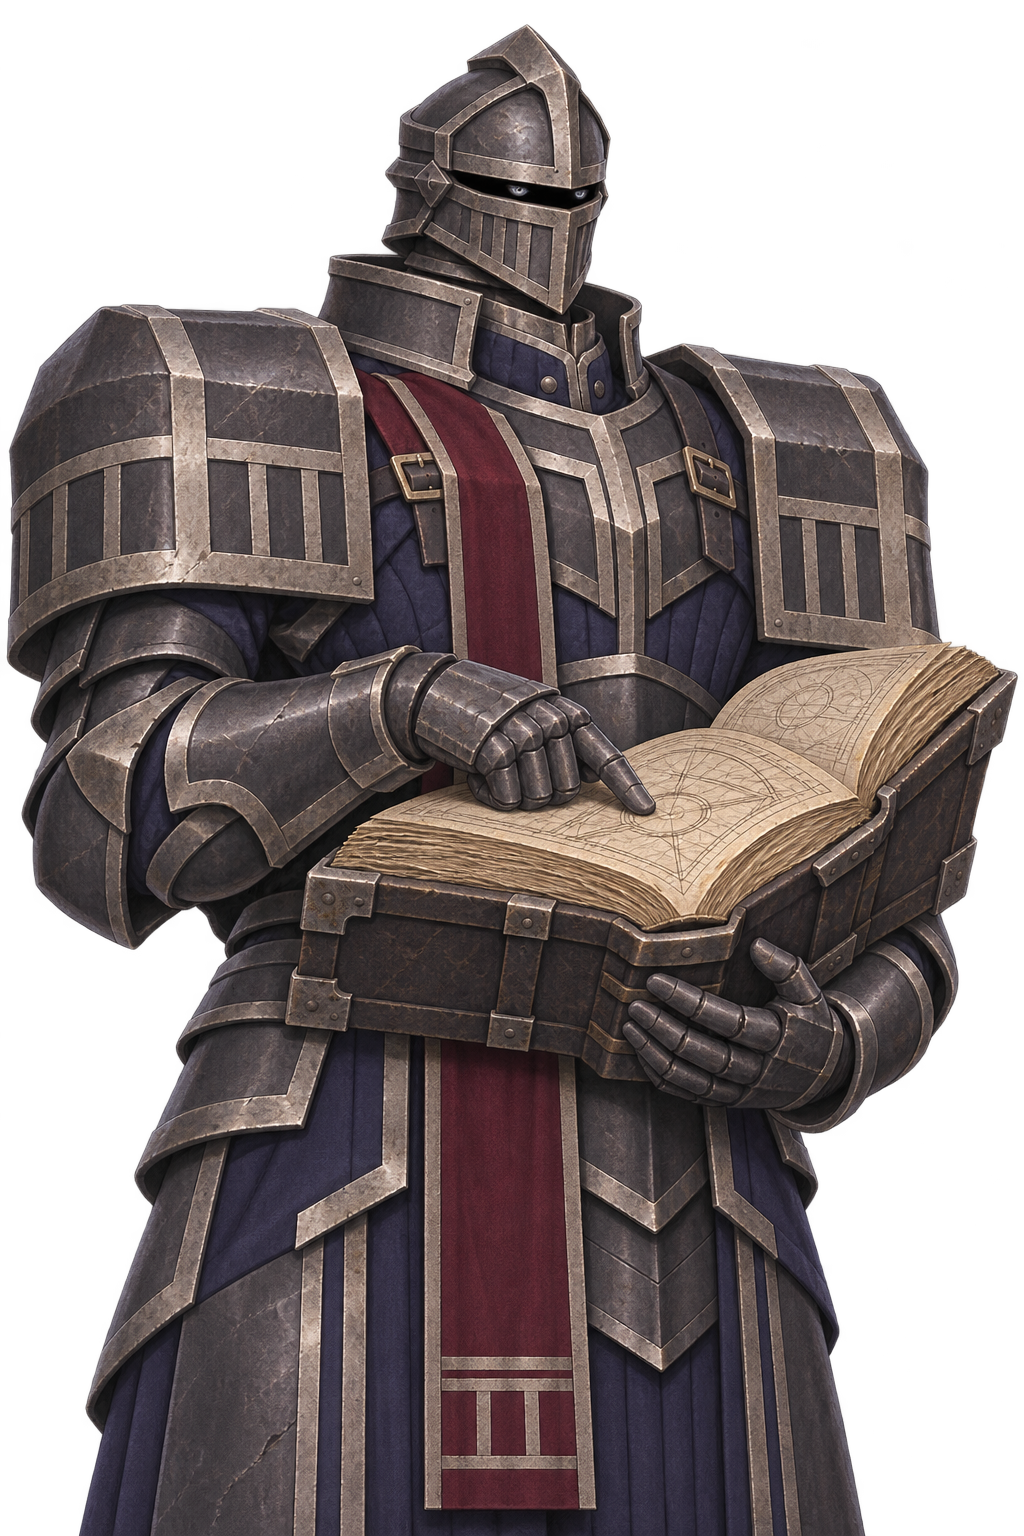
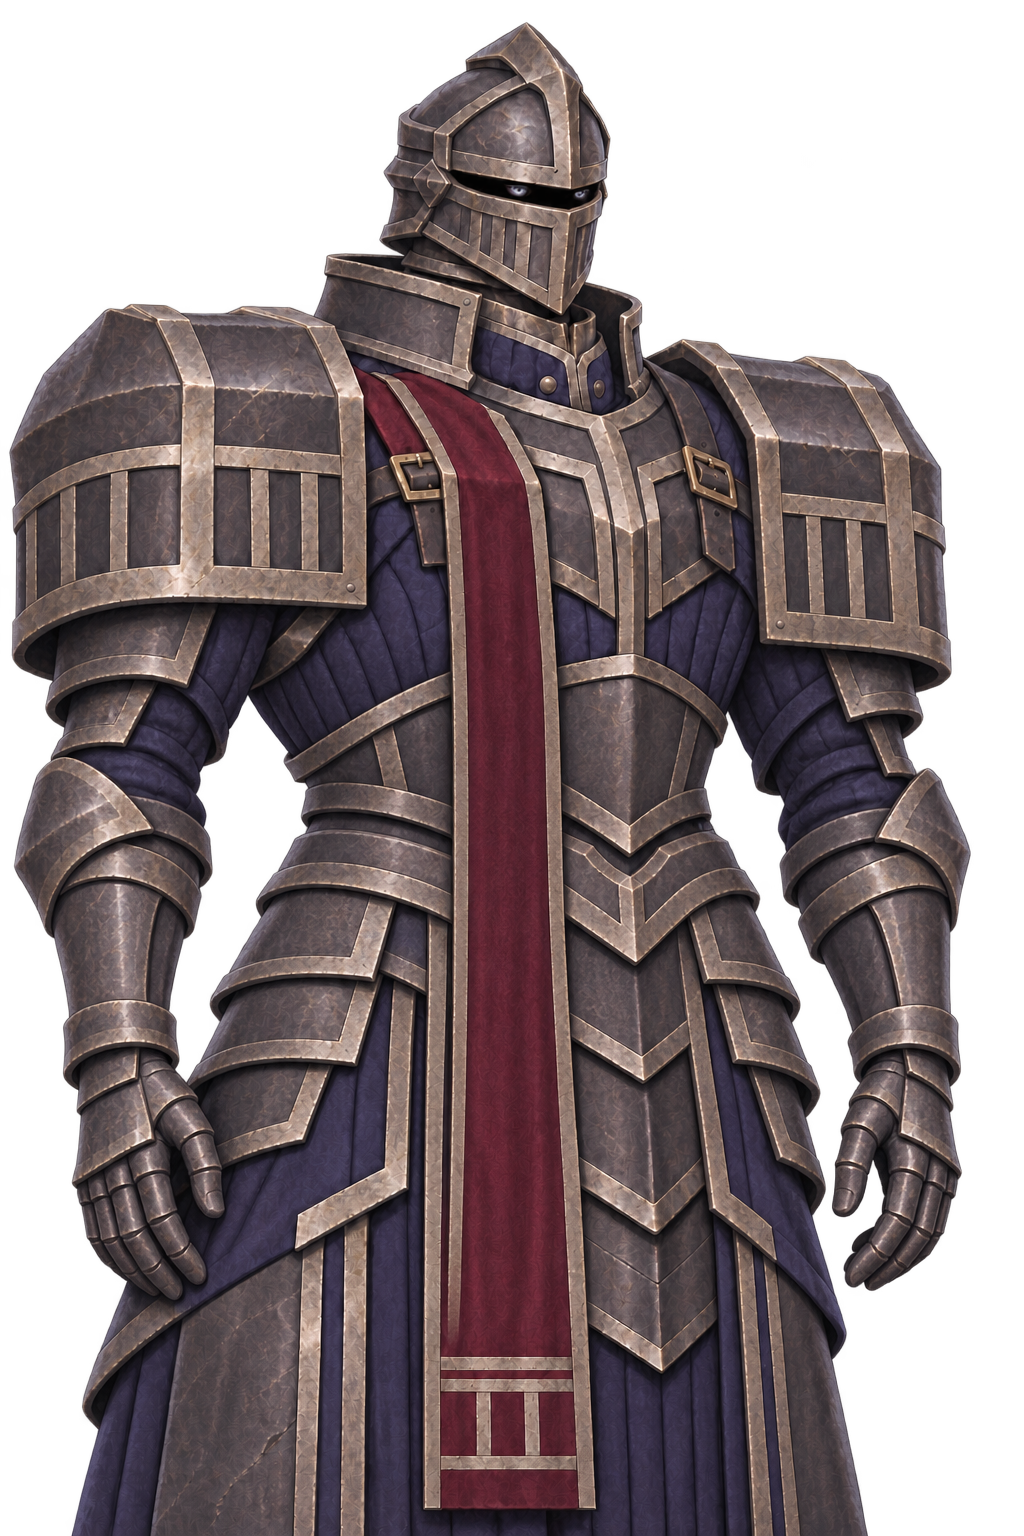
Add SD portraits for all nine commanders and remove Kantor's book

diff --git a/src/assets/commanders/README.md b/src/assets/commanders/README.md
@@ -1,4 +1,4 @@
-# 사령관 대화용 일러스트
+# 사령관 일러스트
 
 `docs/story.md`의 사령관 설정을 바탕으로 이미지 생성 도구로 제작한 무릎 위 대화용 이미지입니다. 모두 1024 × 1536 투명 RGBA PNG이며 게임 대화창에는 아직 연결하지 않았습니다.
 
@@ -11,7 +11,7 @@
 | `noctur/dialogue.png` | 노크투르 · 네이룬의 사령관 | 각진 얼굴과 짧게 넘긴 검은 머리, 작은 의례 모자와 눈가의 검은 베일. 각진 검은 예복·청록 테두리·적갈색 안옷, 장갑과 황동 모래시계로 절제된 장례 집행관을 표현했습니다. |
 | `orwen/dialogue.png` | 오르웬 · 바르덴을 떠난 사령관 | 벗겨진 이마와 짧게 묶은 흰 수염, 주름과 흉터가 있는 노기사. 투박한 청회색 철갑·기운 주황색 망토·천 갑옷, 벗어 든 투구와 나무 지팡이·낡은 컵·봉인 편지로 인간을 택한 떠돌이 수호자를 표현했습니다. |
 | `lumiera/dialogue.png` | 루미에라 · 아우레아의 사령관 | 구릿빛 붉은 단발과 녹색 눈, 남청색 성직복과 곧은 상아색 영대·청자색 안감·구리 장식. 반투명 청회색 유리 깃털의 빛나는 날개와 양손의 성물함, 온화하고 단호한 미소로 교단의 성녀를 표현했습니다. |
-| `kantor/dialogue.png` | 칸토르 · 세르딘의 사령관 | 거대한 폐쇄형 갑주와 좁은 투구 시야, 손으로 조항을 짚는 두꺼운 법전. 냉정한 판결 자세로 희생까지 계산하는 질서의 설계자를 표현했습니다. |
+| `kantor/dialogue.png` | 칸토르 · 세르딘의 사령관 | 거대한 폐쇄형 갑주와 좁은 투구 시야, 양팔을 내린 엄정한 자세. 사용자 요청으로 법전은 제거하고, 단단한 갑주와 시선으로 희생까지 계산하는 질서의 설계자를 표현했습니다. |
 | `hagel/dialogue.png` | 하겔 · 바르덴의 사령관 | 회색 피부의 거인과 등 뒤의 성벽 같은 대형 방패, 단순한 철갑·붕대·가죽끈. 굳은 표정과 움켜쥔 끈으로 충직함과 억눌린 조급함을 함께 표현했습니다. |
 | `volgar/dialogue.png` | 볼가르 · 드라칸의 사령관 | 용의 붉은 비늘과 뿔, 어깨에 걸친 전투 망치와 앞으로 내민 발톱 손. 도전적인 미소와 대각선 구도로 파괴 자체를 즐기는 전쟁광을 표현했습니다. |
 | `esra/dialogue.png` | 에스라 · 드라칸의 사령관 | 얼굴·목·손까지 갈라진 석상 몸, 청록색 학자 외투와 설계도·측정 도구. 친절한 듯한 미소와 정확히 지점을 짚는 손으로 파괴를 설계하는 위험한 조언자를 표현했습니다. |
@@ -20,7 +20,7 @@
 
 ## 설정과 외형의 연결
 
-- 칸토르는 카이렌이 평생 따른 법을 만든 사령관이므로, 전투 자세보다 법전을 근거로 판결하는 자세를 우선했습니다.
+- 칸토르는 카이렌이 평생 따른 법을 만든 사령관입니다. 최신 일러스트는 사용자 요청으로 책을 들지 않으며, 정돈된 갑주와 엄정한 자세로 성격을 표현합니다. 스토리 문서의 설정 자체를 변경한 것은 아닙니다.
 - 하겔의 충직한 보호자 인상은 브람을 시험하고 권능 사용을 유도하는 목적과 함께 읽혀야 합니다. 방패의 크기가 현재 사령관 간 전투력 순위를 뜻하지는 않습니다.
 - 볼가르와 에스라는 같은 파괴를 힘으로 강요하는 길과 공감으로 설득하는 길로 나눕니다. 에스라의 차분한 얼굴을 악역의 분노로 바꾸지 않았습니다.
 - 키엘·로엘은 한 장에 합치지 않고 각자 대화용 파일을 가집니다. 가면·검은 머리·청록 외투·연결 고리와 소매 무늬를 공유하며, 표정·안감·손짓으로 구분합니다.
@@ -31,3 +31,13 @@
 추가 6명은 최신 노크투르 이미지를 화풍 참고로만 사용했습니다. 얼굴·모자·베일·예복을 복제하지 않고 각각의 문서상 모습을 우선했습니다.
 
 노크투르의 검은 베일, 오르웬의 낡은 갑주와 노쇠함, 루미에라의 빛나는 한 쌍의 날개는 스토리 설정을 유지합니다. 세부 외형과 겉보기 나이는 이번 디자인 제안이며 실제 나이·출생·종족 설정을 새로 확정하지 않습니다. 이전 초안은 생성 원본과 앞서 제공한 다운로드 묶음에 남아 있으며, 이 폴더의 `dialogue.png`가 최신 디자인입니다.
+
+## SD 기본 자세
+
+9명 모두 최신 `dialogue.png`를 바탕으로 제작한 전신 SD 이미지 `각 인물 폴더/sd_idle.png`를 가집니다. 모두 1254 × 1254 투명 RGBA PNG이며, 입을 다문 기본 표정으로 제작했습니다. 키엘·로엘은 가면의 웃는 선과 우는 선을 유지합니다.
+
+- 오르웬의 노쇠함, 하겔의 거구와 등 방패, 볼가르의 뿔·비늘·망치, 에스라의 석상 균열과 설계도를 구분했습니다.
+- 루미에라의 한 쌍의 유리 깃털 날개, 노크투르의 베일과 모래시계, 쌍둥이의 가면과 서로 다른 안감·소품을 유지했습니다.
+- 칸토르는 최신 대화용 이미지와 동일하게 책 없이 빈손으로 서 있습니다.
+
+현재 파일은 정지 이미지 원본입니다. 이동·공격 애니메이션, 모바일용 축소본, 게임 내 배치는 아직 포함하지 않습니다. 생성 원본은 `/workspace/generated_images/`에 보존했습니다.
